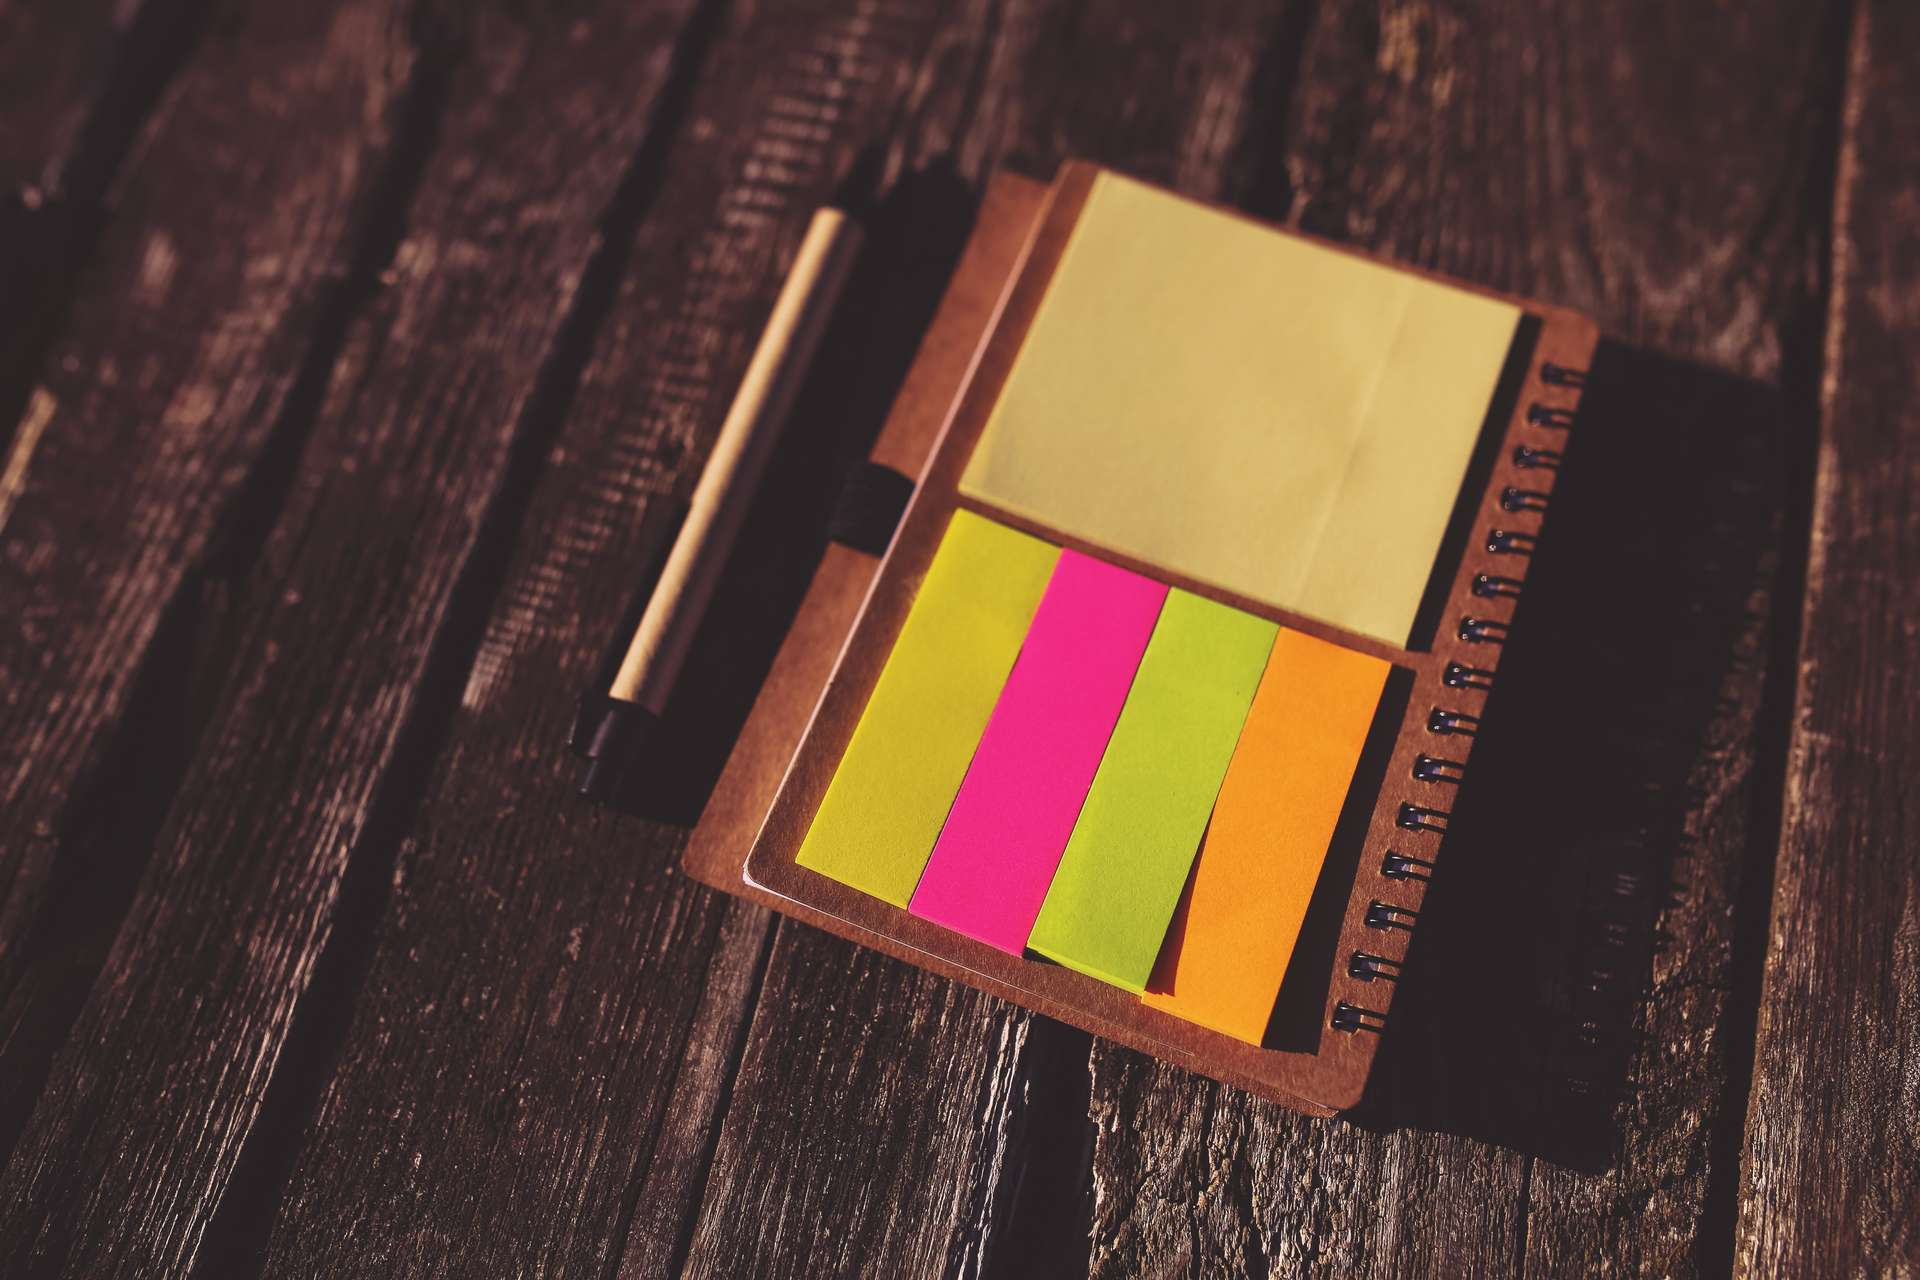
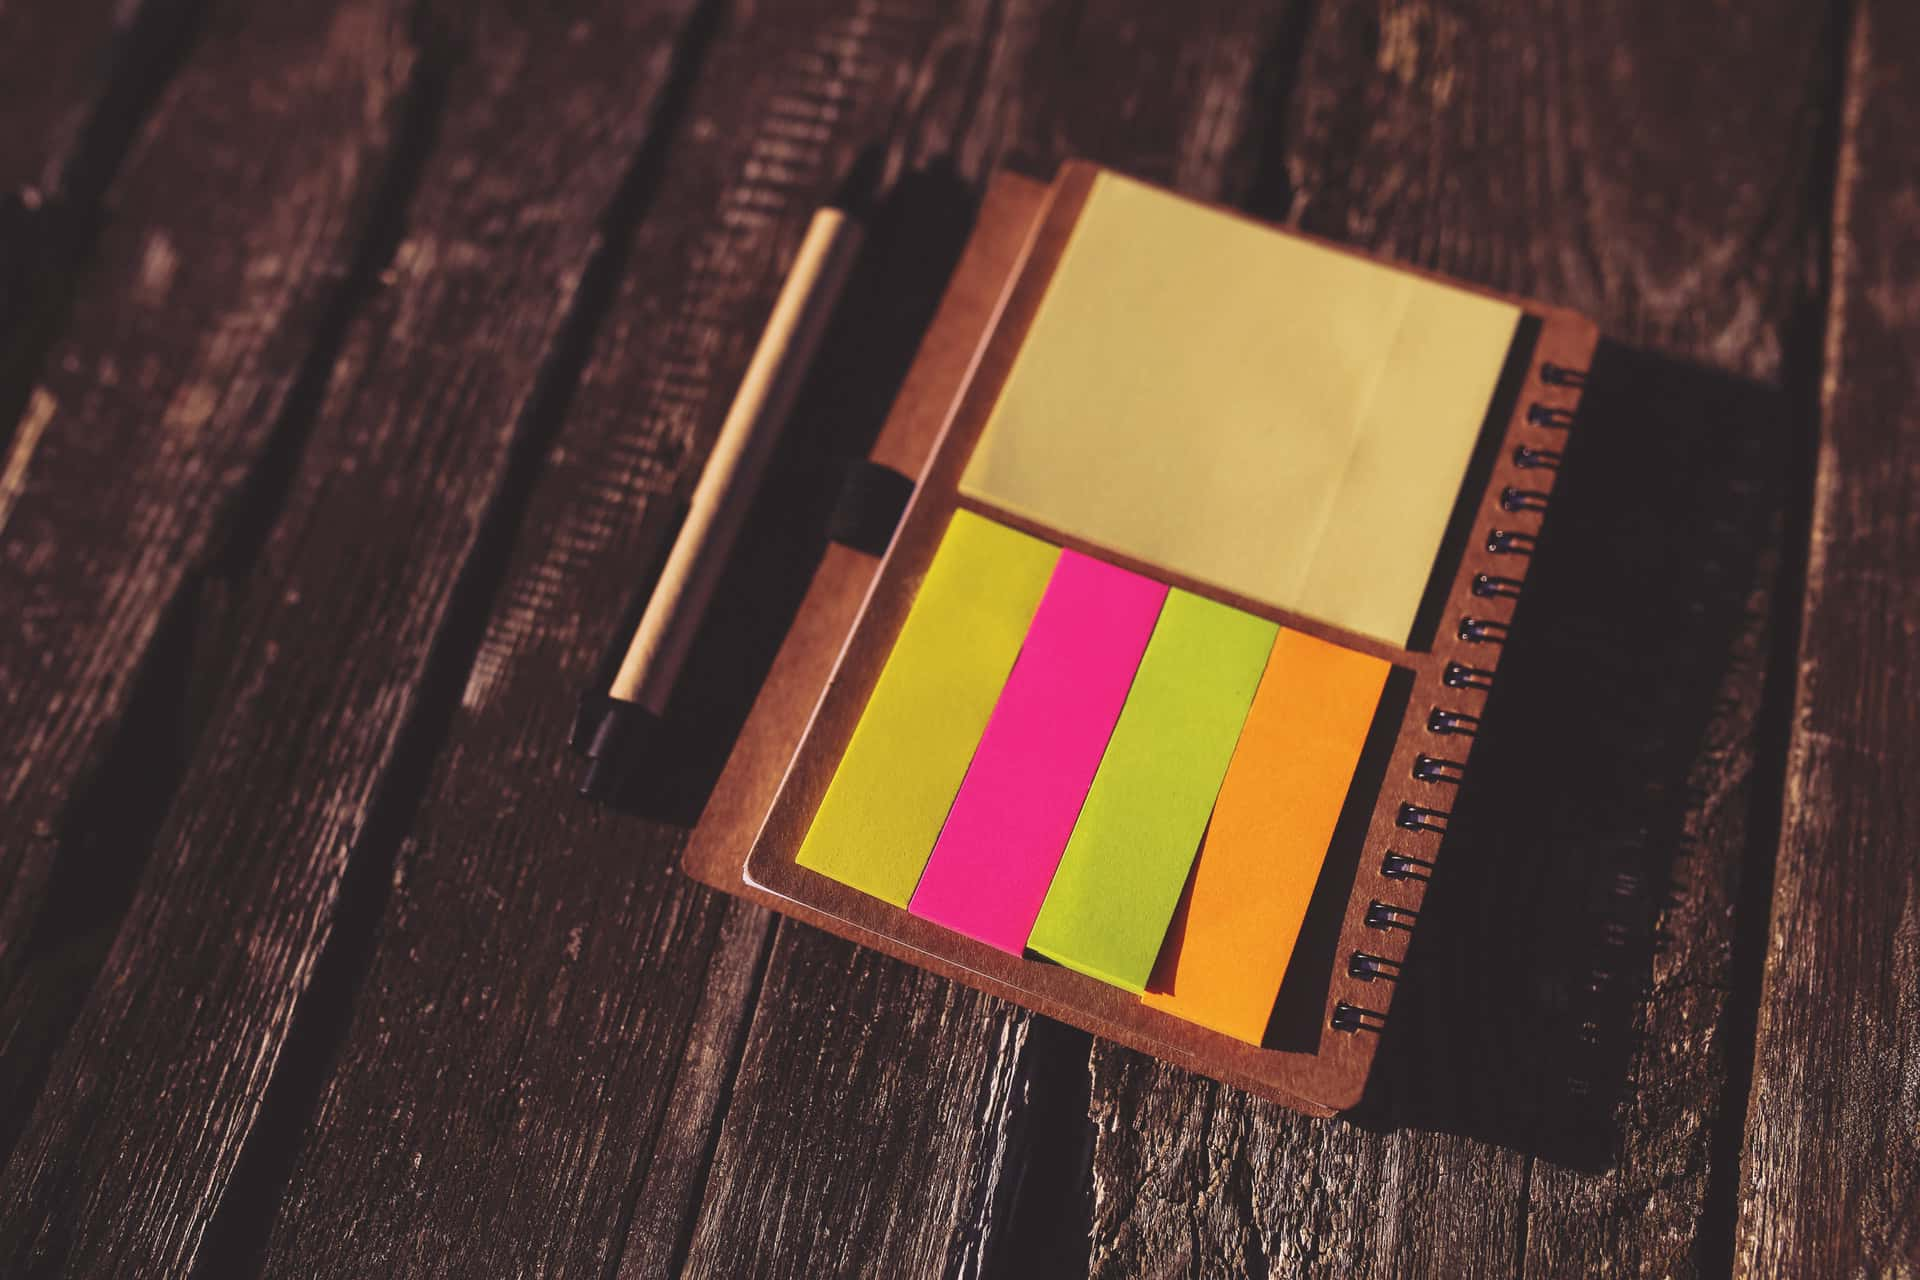
make images smaller

diff --git a/webpack.config.server.js b/webpack.config.server.js
@@ -35,15 +35,10 @@ module.exports = {
               name: "[name].[hash].[ext]",
               publicPath: "/static/images/"
             }
+          },
+          {
+            loader: "image-webpack-loader"
           }
-          // {
-          //   loader: "image-webpack-loader",
-          //   options: {
-          //     mozjpeg: {
-          //       enabled: false
-          //     }
-          //   }
-          // }
         ]
       },
       {

diff --git a/webpack.config.client.js b/webpack.config.client.js
@@ -60,15 +60,10 @@ module.exports = {
               name: "[name].[hash:6].[ext]",
               outputPath: "images/"
             }
+          },
+          {
+            loader: "image-webpack-loader"
           }
-          // {
-          //   loader: "image-webpack-loader",
-          //   options: {
-          //     mozjpeg: {
-          //       enabled: false
-          //     }
-          //   }
-          // }
         ]
       },
       {
